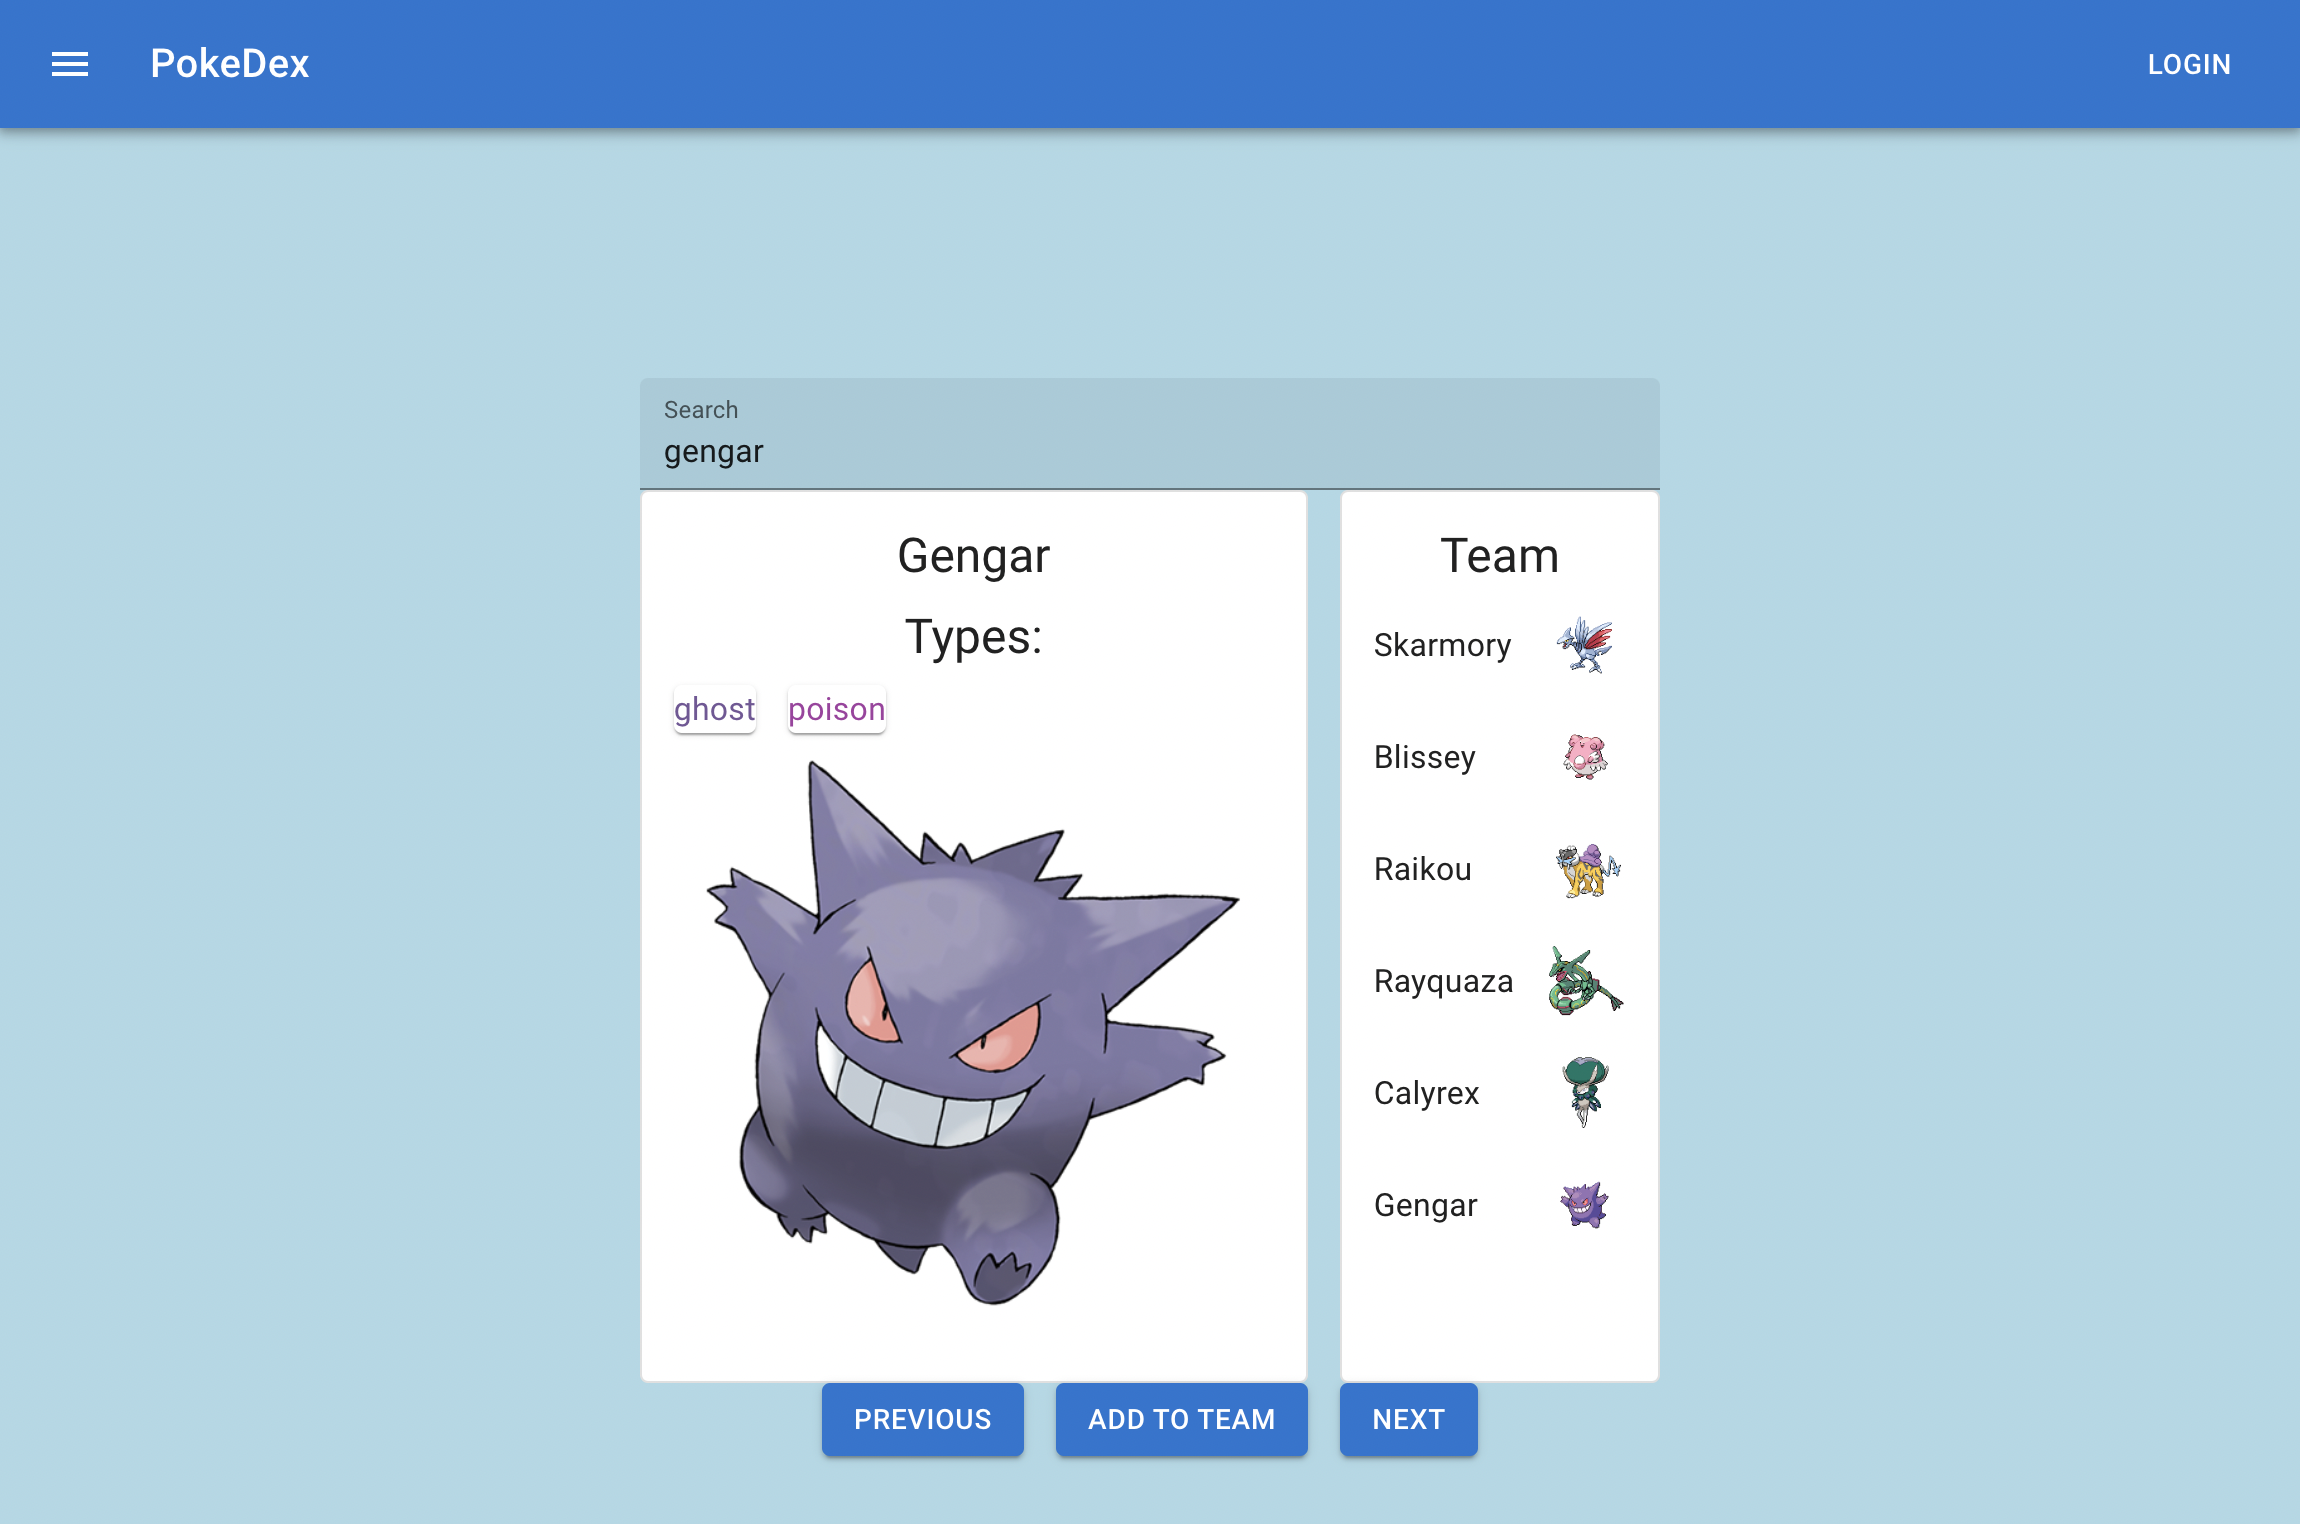
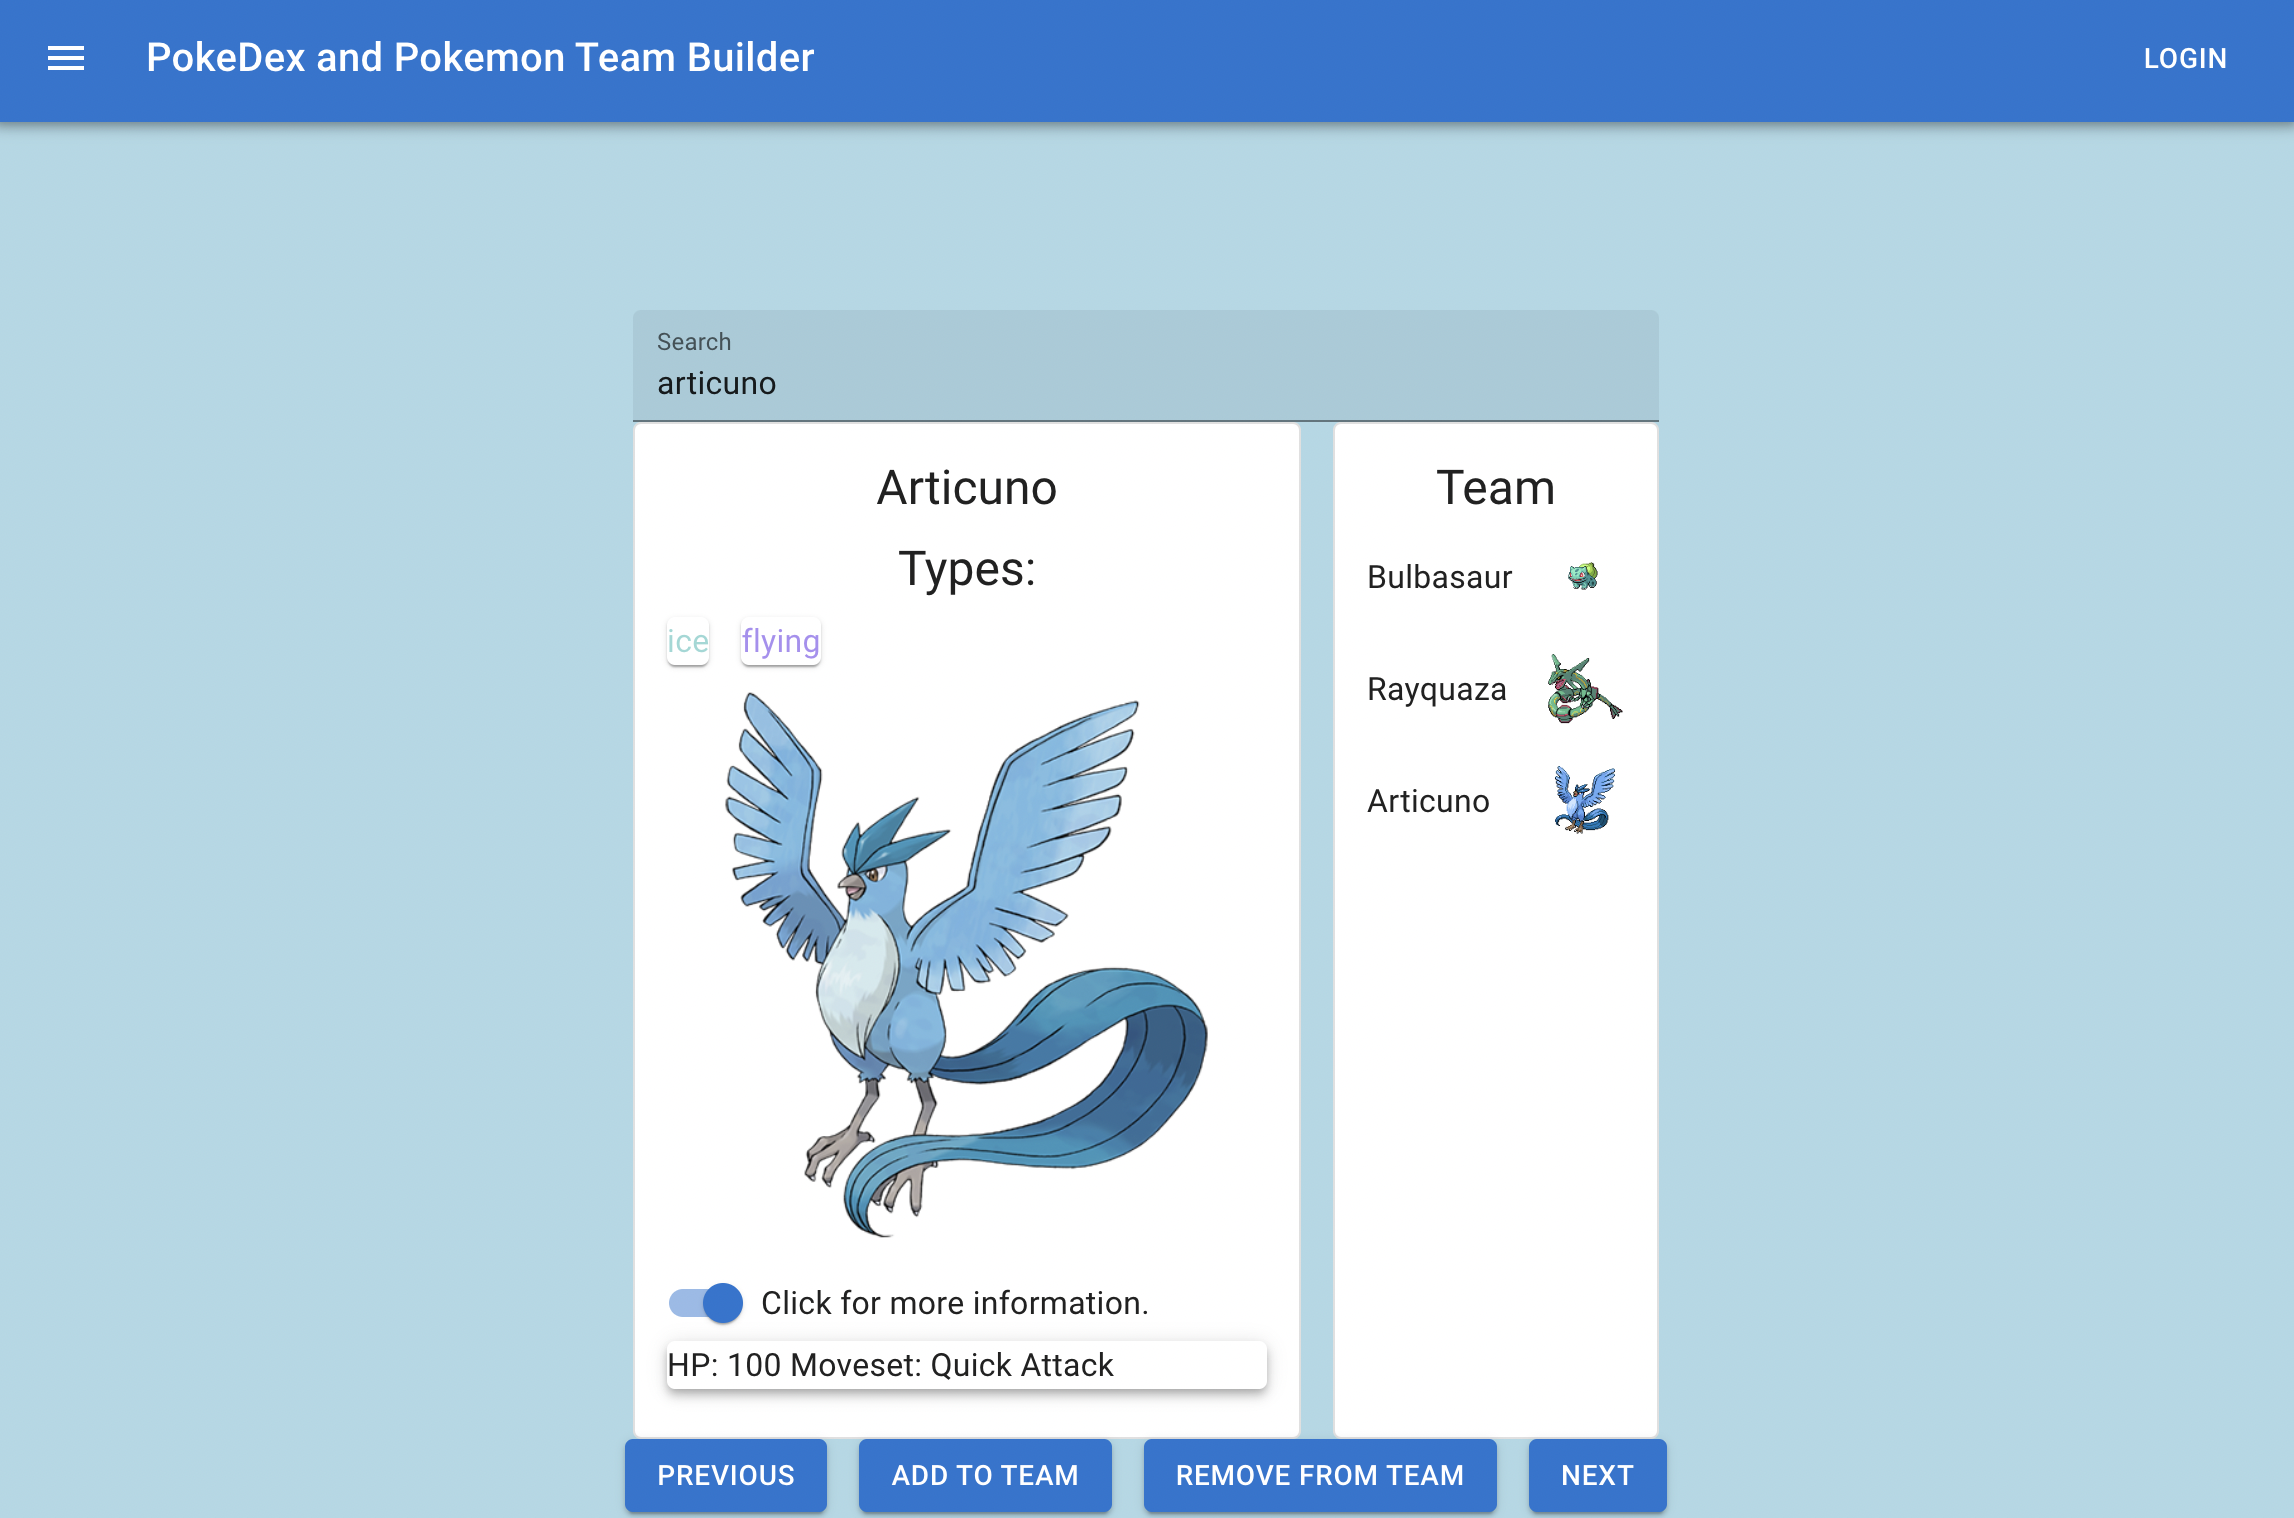
refactored next and prev button, added info card

Changed region(s): [[0.2476, 0.2167, 0.7428, 1.0], [0.0, 0.031, 1.0, 0.0929], [0.6809, 0.774, 0.7119, 0.805]]

diff --git a/src/App.js b/src/App.js
@@ -1,6 +1,6 @@
 import './App.css';
 import React, { useState, useEffect } from 'react';
-import { Card, CardContent, CardMedia, Container, Icon } from '@mui/material';
+import { Card, CardContent, CardMedia, Container, } from '@mui/material';
 import { Typography } from '@mui/material';
 import { Grid } from '@mui/material';
 import { Stack } from '@mui/material';
@@ -9,7 +9,7 @@ import { Paper } from '@mui/material';
 import NavigationBar from './components/NavigationBar';
 import TeamCard from './components/TeamCard';
 import SearchBar from './components/SearchBar';
-import InfoIcon from '@mui/icons-material/Info';
+import InformationPane from './components/InformationPane';
 
 // Represents the main application.
 function App() {
@@ -83,7 +83,7 @@ function App() {
                     ))}
                   </Stack>
                   <CardMedia component="img" height="300" image={image} alt="Loading" />
-                  <InfoIcon></InfoIcon>
+                  <InformationPane></InformationPane>
                 </CardContent>
               </Card>
               <TeamCard team={team} sprites={sprites}></TeamCard>
@@ -92,41 +92,12 @@ function App() {
 
           <Grid>
             <Stack spacing={2} direction='row'>
-              <Button onClick={() => {
-                let temp = currentId - 1;
-                console.log('temp is: ' + temp)
-                if (temp === 0) {
-                  setCurrentPokemon(1);
-                } else {
-                  setCurrentPokemon(temp);
-                }
-              }}
+              <Button onClick={increasePokemonIndex}
                 variant="contained">Previous</Button>
-              <Button onClick={() => {
-                const newTeam = team
-                var isIncluded = newTeam.includes(name)
-                var underSix = newTeam.length < 6
-
-                if (!isIncluded && underSix) {
-                  setTeam(newTeam => newTeam.concat(name))
-                  setSprites(newSprites => newSprites.concat(sprite))
-                  console.log(`added ${name} to team state.`)
-                }
-
-              }}
+              <Button onClick={addPokemonToTeam}
                 variant='contained'>Add to Team</Button>
               <Button variant="contained">Remove from Team</Button>
-              <Button onClick={() => {
-                let temp = currentId + 1
-
-                console.log('Incremented value is: ' + temp)
-                
-                if (temp > 898) {
-                  setCurrentPokemon(898)
-                } else {
-                  setCurrentPokemon(temp)
-                }
-              }}
+              <Button onClick={decrementPokemonIndex}
                 variant="contained">Next</Button>
             </Stack>
           </Grid>
@@ -134,9 +105,50 @@ function App() {
       </Container>
     );
   }
-}
 
-//Helpers
+  /**
+   * Increases the current PokemonAPI endpoint by 1.
+   */
+  function increasePokemonIndex() {
+    let temp = currentId - 1;
+    console.log('temp is: ' + temp)
+    if (temp === 0) {
+      setCurrentPokemon(1);
+    } else {
+      setCurrentPokemon(temp);
+    }
+  }
+
+  /**
+   * Decreases the current PokemonAPI endpoint by 1.
+   */
+  function decrementPokemonIndex() {
+    let temp = currentId + 1
+  
+    console.log('Incremented value is: ' + temp)
+    
+    if (temp > 898) {
+      setCurrentPokemon(898)
+    } else {
+      setCurrentPokemon(temp)
+    }
+  }
+
+  /**
+   * Adds the current pokemon to the team along with sprite.
+   */
+  function addPokemonToTeam() {
+    const newTeam = team
+    var isIncluded = newTeam.includes(name)
+    var underSix = newTeam.length < 6
+
+    if (!isIncluded && underSix) {
+      setTeam(newTeam => newTeam.concat(name))
+      setSprites(newSprites => newSprites.concat(sprite))
+      console.log(`added ${name} to team state.`)
+    }
+  }
+}
 
 /**
  * capitalize the string

diff --git a/src/components/InformationPane.js b/src/components/InformationPane.js
@@ -1,0 +1,50 @@
+import React from 'react'
+import Box from '@mui/material/Box';
+import Switch from '@mui/material/Switch';
+import Paper from '@mui/material/Paper';
+import Slide from '@mui/material/Slide';
+import FormControlLabel from '@mui/material/FormControlLabel';
+import { Typography } from '@mui/material';
+import { useState } from 'react';
+
+/**
+ * @classdesc this is the the dynamic information panel that displays relevant information.
+ */
+export default function InformationPane() {
+    const [checked, setChecked] = useState(false)
+
+    const handleChange = () => {
+        setChecked((prev) => !prev)
+    }
+
+    /**
+     * 
+     * @returns changes the box height depending on the checked state.
+     */
+    function changeBoxHeight() {
+        return (checked ? 180 : 10);
+    }
+
+    const icon = (
+        <Paper elevation={4}>
+            <Typography>
+            HP: 100
+            Moveset: Quick Attack
+            </Typography>
+        </Paper>
+    )
+
+    return (
+        <Box sx={{ changeBoxHeight }}>
+            <Box>
+                <FormControlLabel
+                    control={<Switch checked={checked} onChange={handleChange} />}
+                    label="Click for more information."
+                />
+                <Slide direction="up" in={checked} mountOnEnter unmountOnExit>
+                    {icon}
+                </Slide>
+            </Box>
+        </Box>
+    )
+}

diff --git a/src/components/NavigationBar.js b/src/components/NavigationBar.js
@@ -22,7 +22,7 @@ export default function NavigationBar() {
             <MenuIcon />
           </IconButton>
           <Typography variant="h6" component="div" sx={{ flexGrow: 1 }}>
-            PokeDex
+            PokeDex and Pokemon Team Builder
           </Typography>
           <Button color="inherit">Login</Button>
         </Toolbar>
